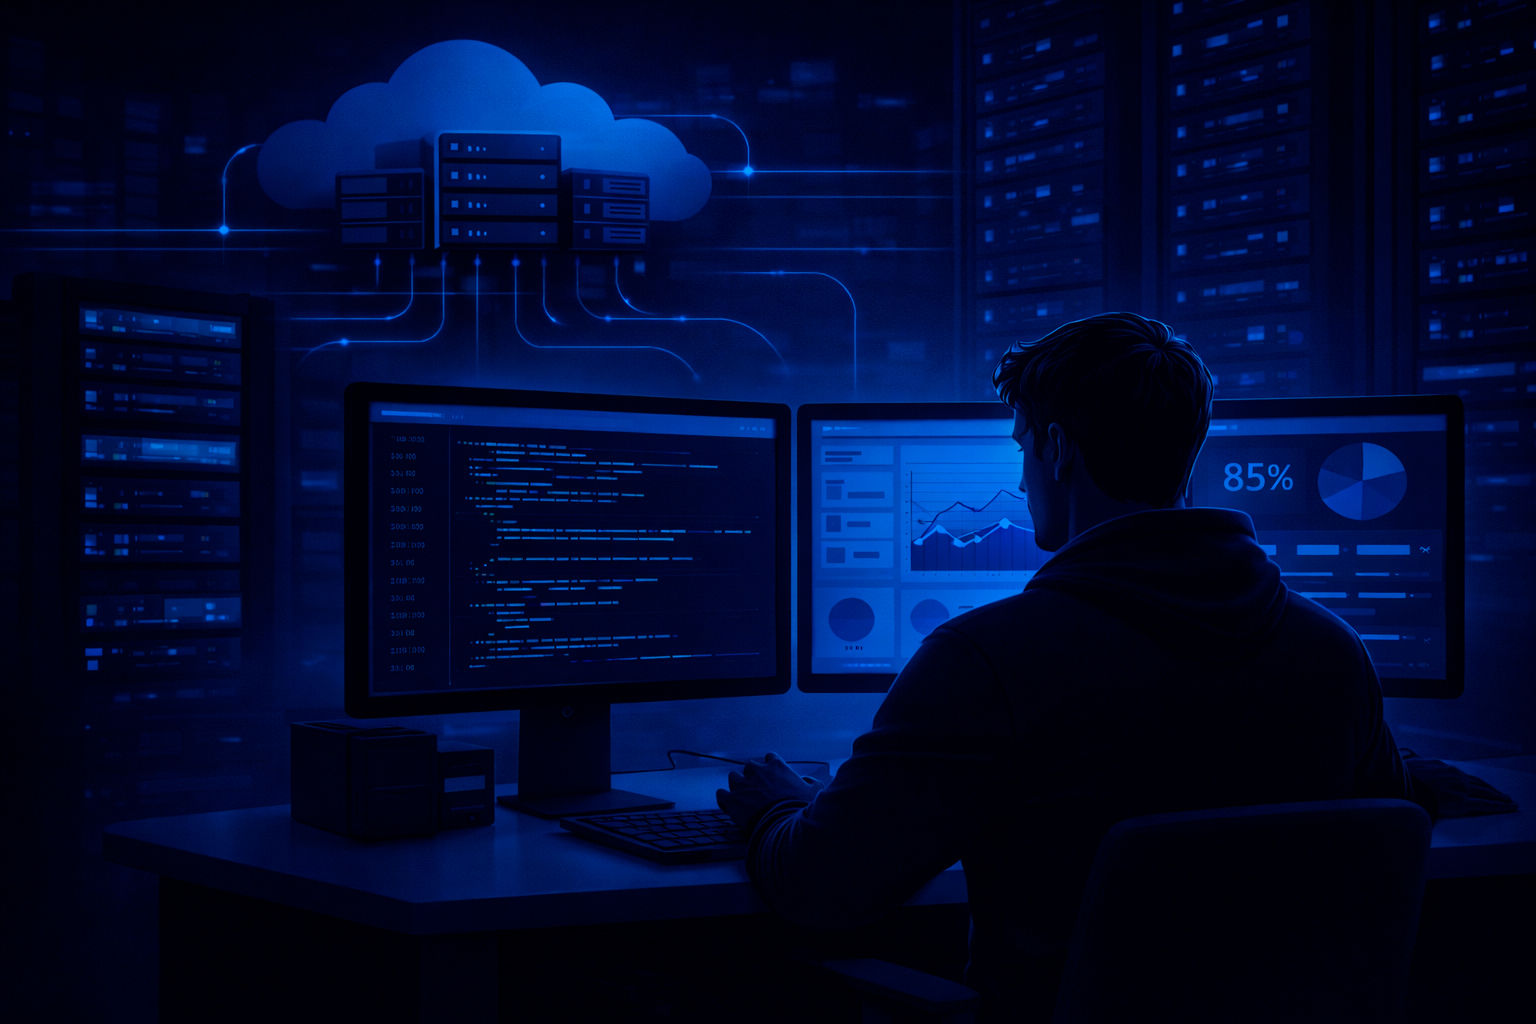
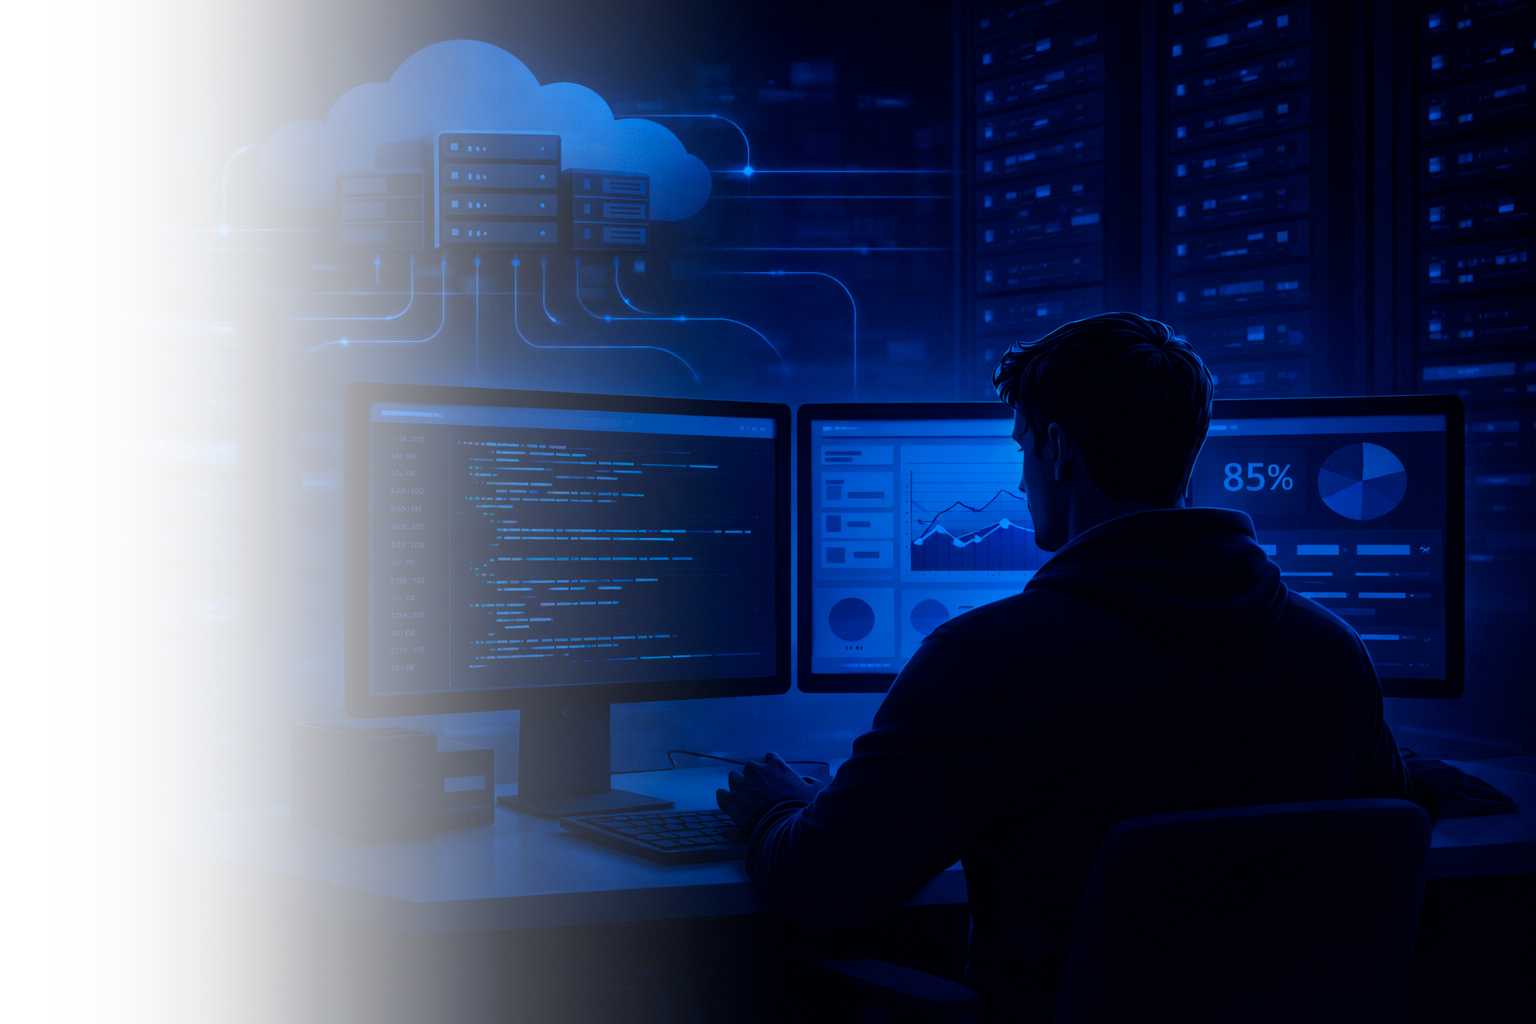
edit_image_hero: agrego gradiente en las imagenes del hero de cada subpagina.

diff --git a/src/css/style.css b/src/css/style.css
@@ -1001,7 +1001,7 @@ section {
     to right,
     white 0%,
     white 20%,
-    rgba(255,255,255,2) 45%,
+    rgba(255,255,255,2) 55%,
     transparent 70%
   );
   pointer-events: none;
